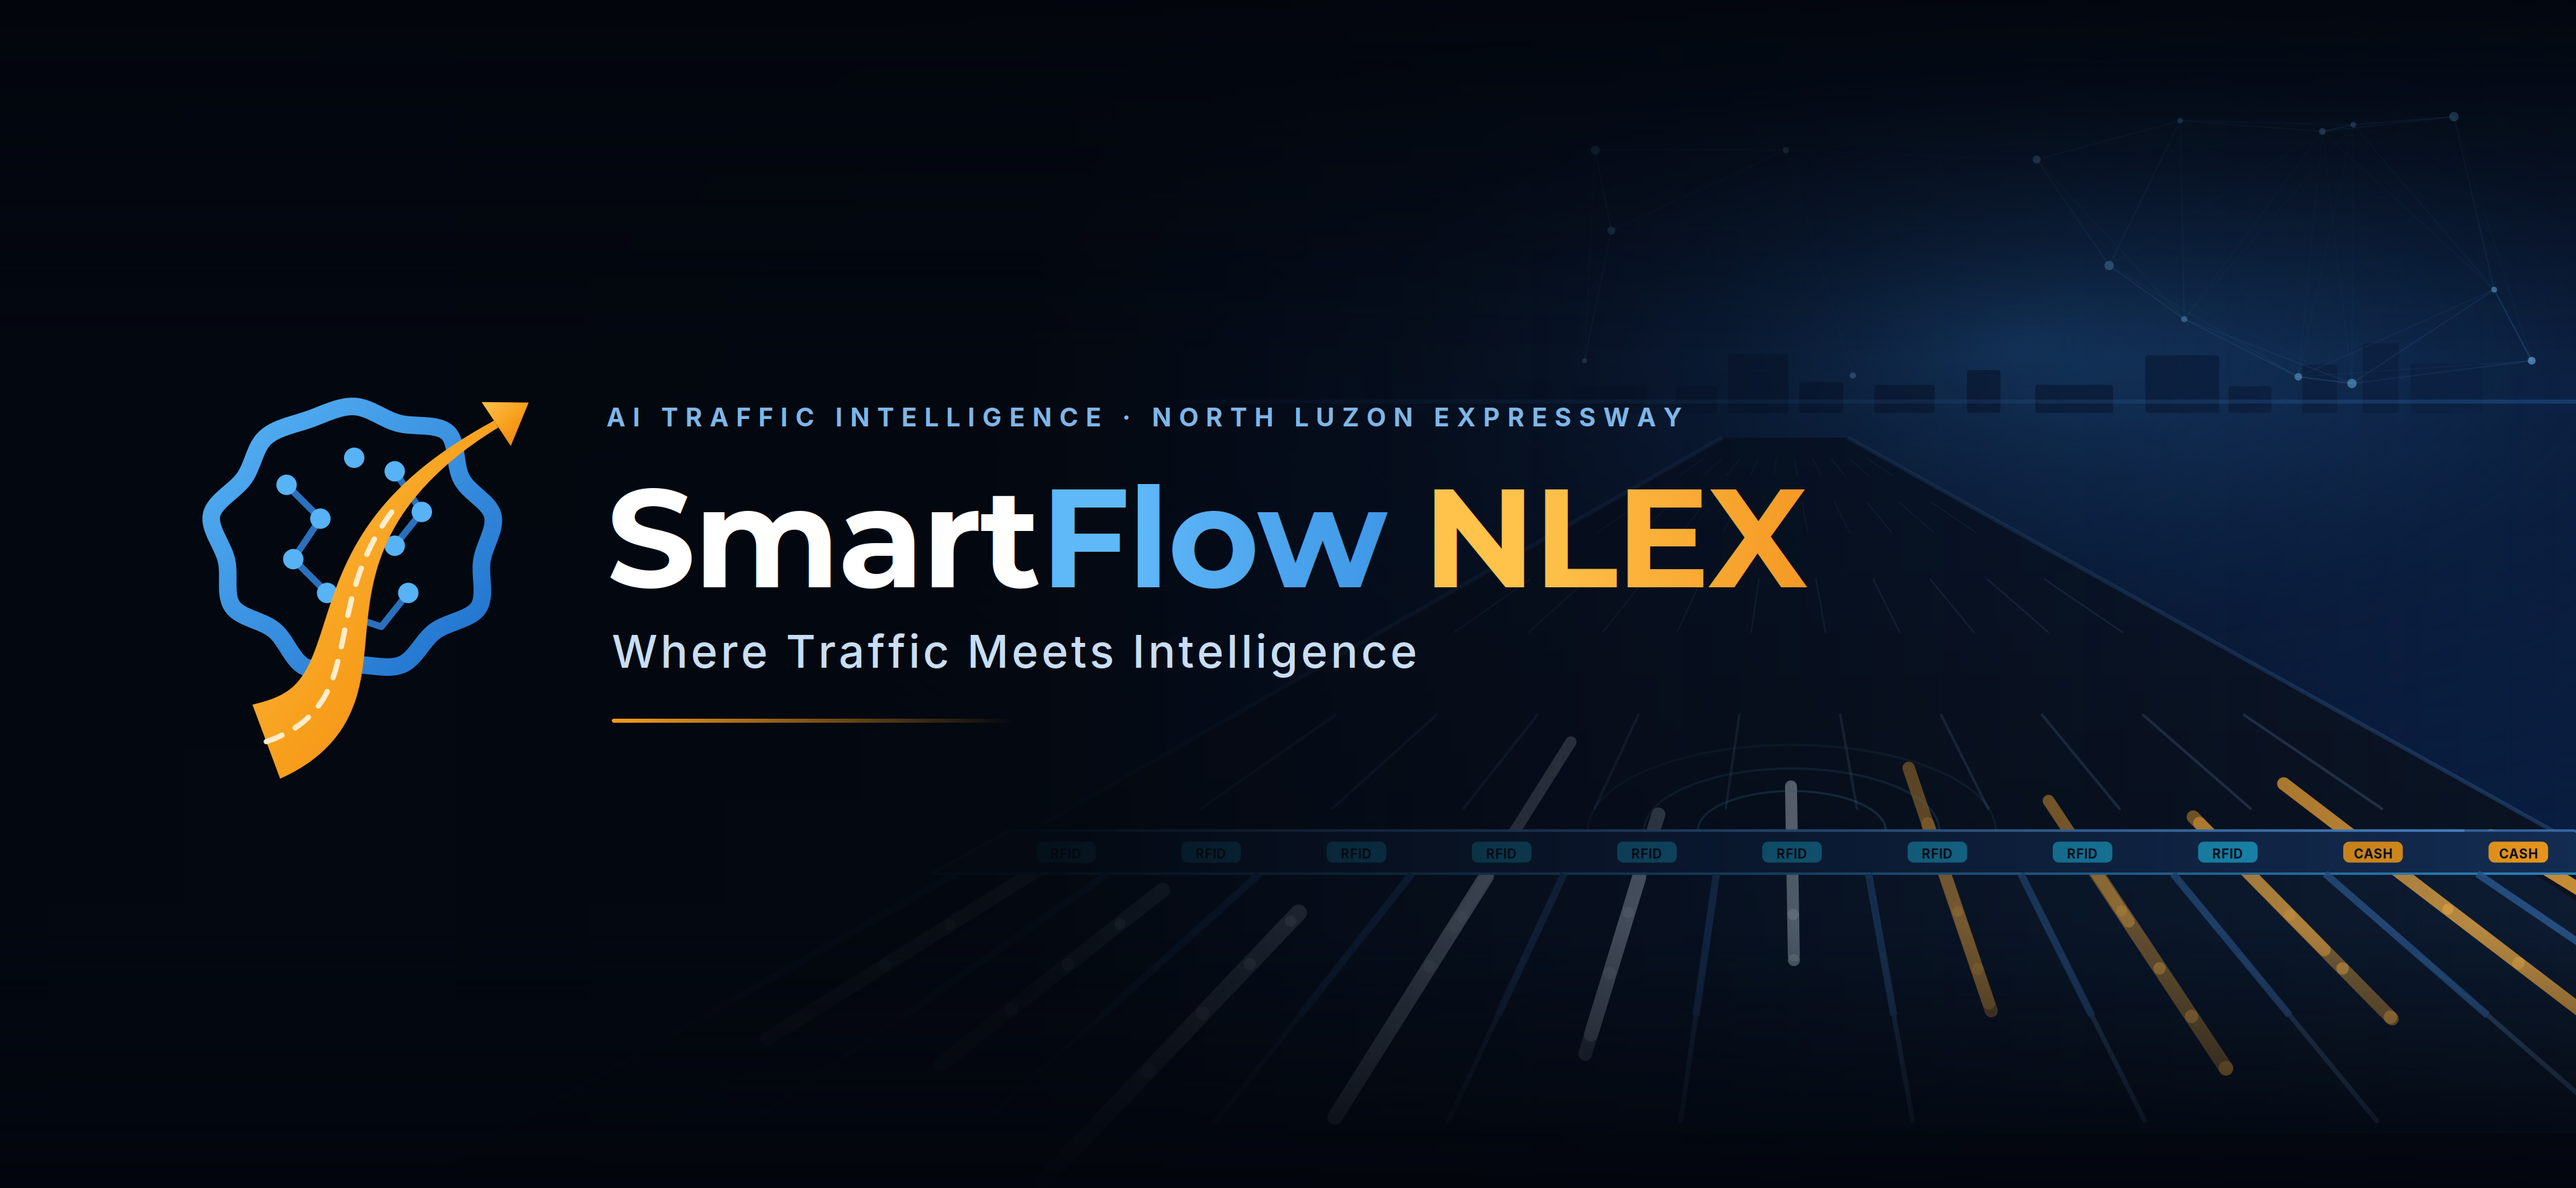
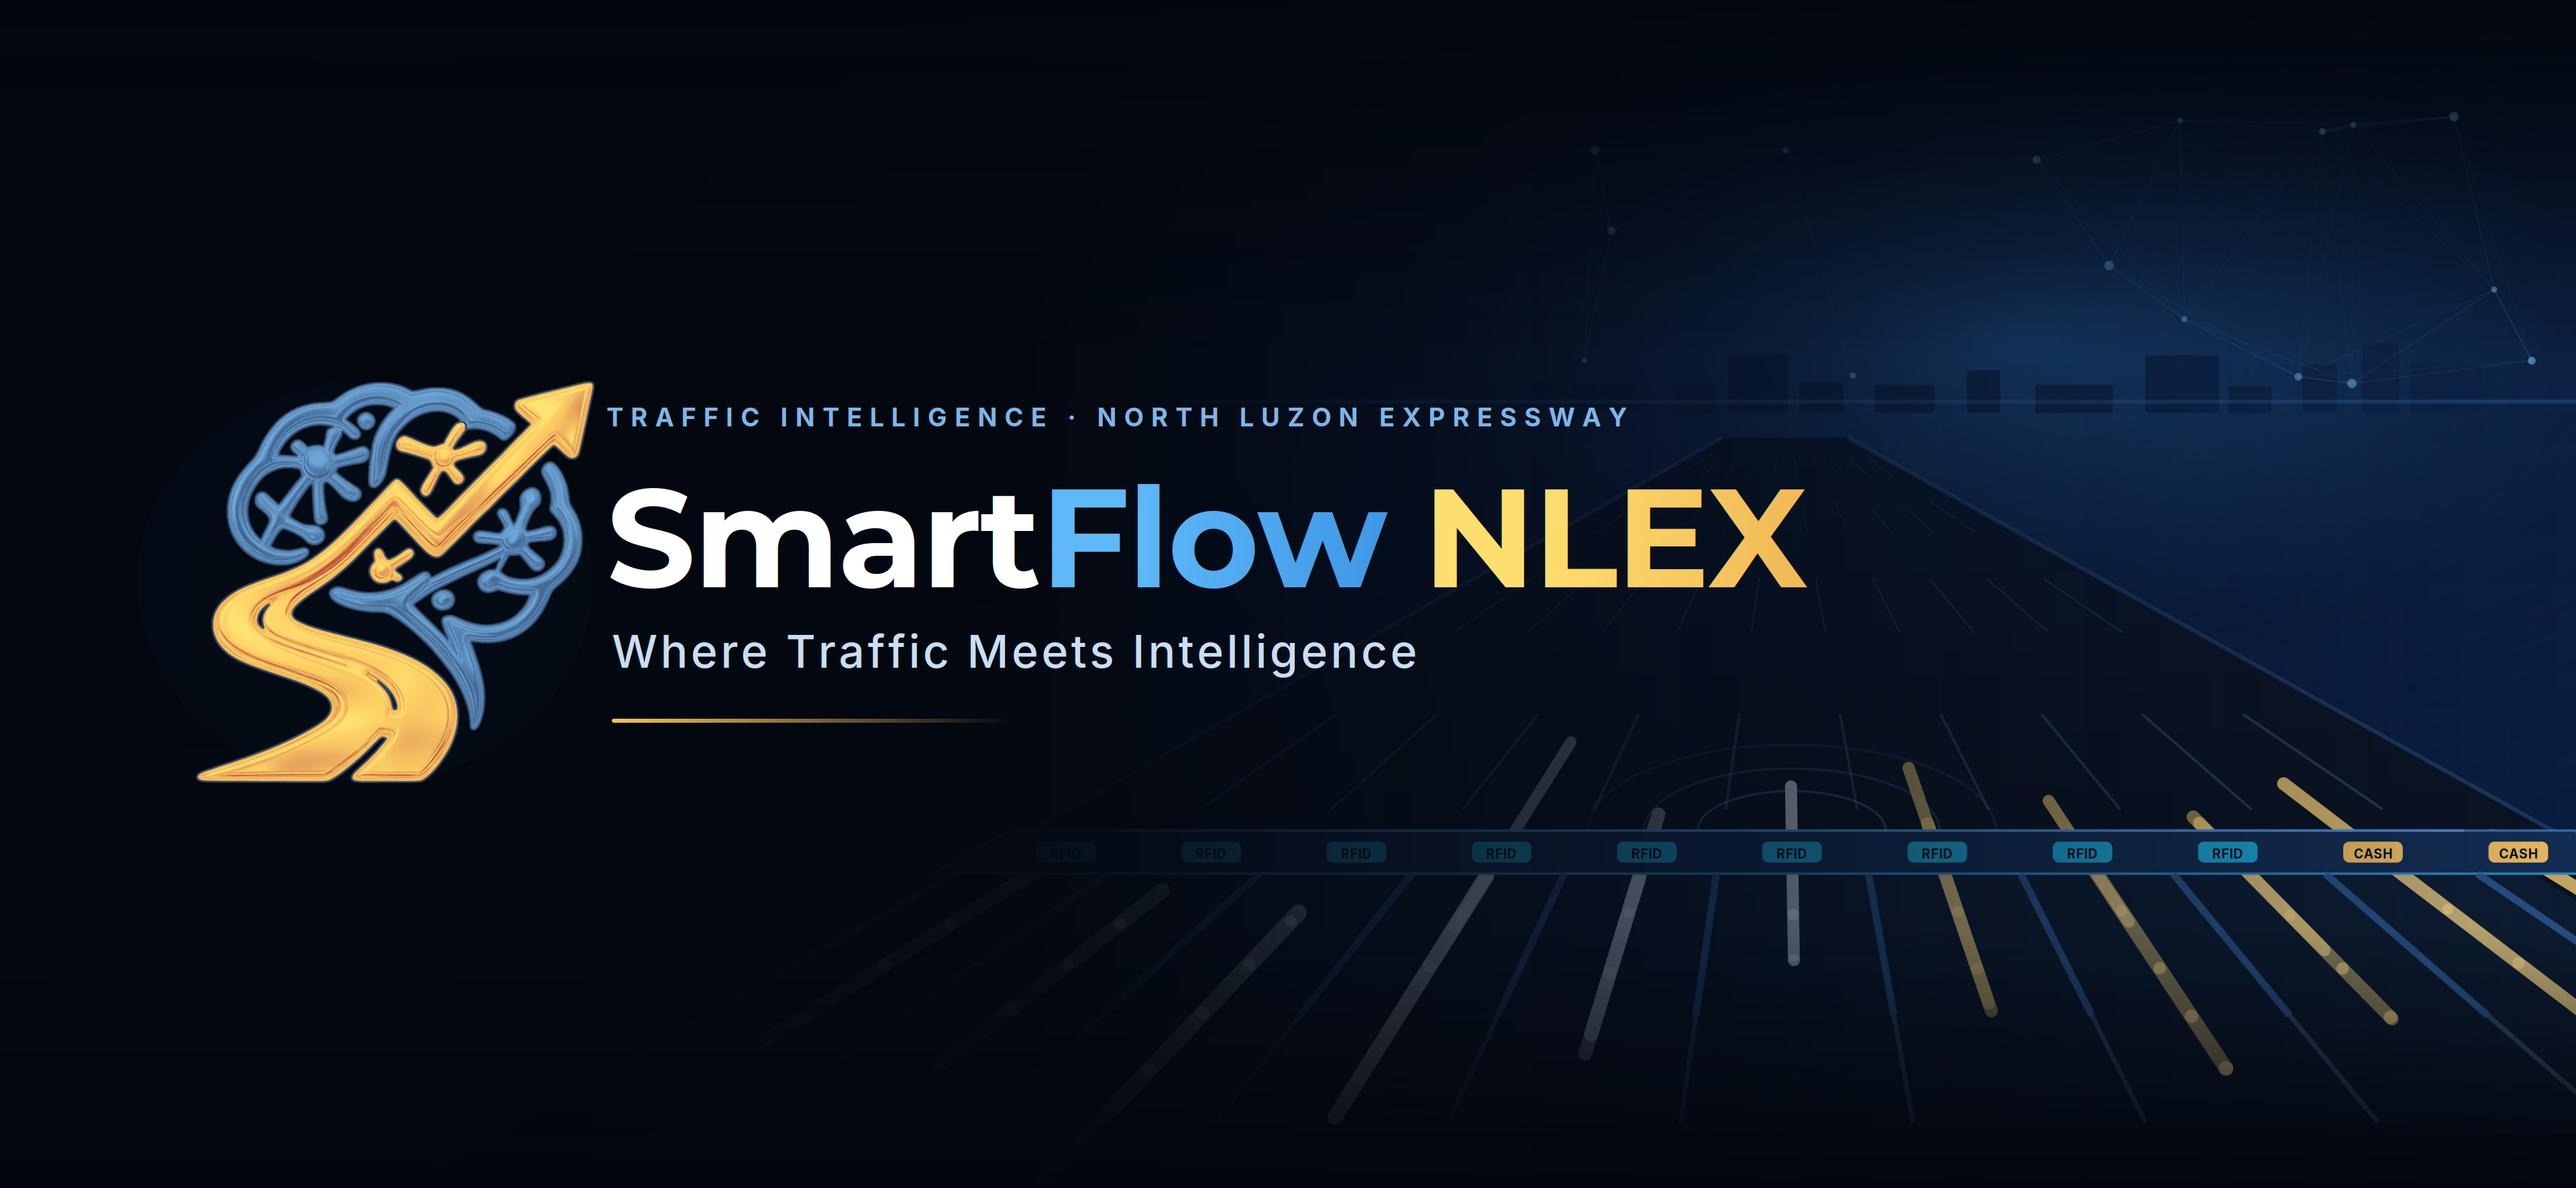
Swap the brand mark with the theme, and fix the 404 on the login screen
The topbar mark now uses SMARTFLOW_LOGO_WHITE.png in light and logo-dark-bg.png
in dark, guarded the same three ways as the hero and the palette so an explicit
choice beats the OS setting in both directions.

Hidden with `display`, not `opacity`. The hero images are position:fill and
stacked, so fading one out costs nothing; these sit in normal flow, where a
transparent-but-present image would still hold its 40px and shove the wordmark
sideways.

The dark cut is an opaque navy tile rather than a transparent mark, so on the
near-black topbar it would read as a hard square. Rounded to 9px so it looks like
a deliberate badge instead of an untrimmed asset.

Separately, and not part of the request: the login page pointed at
/SMARTFLOW_LOGO.png, which is no longer in public/ and was returning 404 - a
broken image on the first screen anyone sees, left behind when the old assets
were cleared out. It now uses the same two cuts. That page needed the swap rather
than a single file, because the login shell takes --bg-login, which flips to
#0d1117 in dark mode; a light-background mark there would have been wrong half
the time.

Audited every src="/*.png" in the app afterwards - all four resolve 200, no other
dangling references.

diff --git a/Front-End-Dashboard/app/globals.css b/Front-End-Dashboard/app/globals.css
@@ -731,7 +731,7 @@ body {
 .ds-sidebar {
   background: var(--bg-sidebar);
   color: var(--text-on-dark);
-  padding: 18px 14px;
+  padding: 25px 14px 18px;
   display: flex;
   flex-direction: column;
   overflow: hidden;
@@ -751,7 +751,7 @@ body {
   display: flex;
   align-items: center;
   justify-content: space-between;
-  margin-bottom: 16px;
+  margin-bottom: 0;
   padding-right: 4px;
   flex-shrink: 0;
 }
@@ -1047,6 +1047,50 @@ body {
   height: 40px;
   object-fit: contain;
 }
+
+/* --- Brand mark, light and dark cuts --------------------------------------
+   Same three-state guard as the hero and the palette: a bare default, an OS
+   preference that an explicit Light choice still overrides, and an explicit Dark
+   choice that beats a light OS.
+
+   `display` rather than `opacity`, because these are in normal flow — a
+   transparent-but-present image would still occupy its 40px and push the
+   wordmark across.
+   ------------------------------------------------------------------------- */
+
+.ds-brand-logo.is-dark  { display: none; }
+.ds-brand-logo.is-light { display: block; }
+
+@media (prefers-color-scheme: dark) {
+  :root:not([data-theme="light"]) .ds-brand-logo.is-dark  { display: block; }
+  :root:not([data-theme="light"]) .ds-brand-logo.is-light { display: none; }
+}
+
+:root[data-theme="dark"] .ds-brand-logo.is-dark  { display: block; }
+:root[data-theme="dark"] .ds-brand-logo.is-light { display: none; }
+
+/* The dark cut is an opaque navy tile rather than a transparent mark, so it
+   would otherwise sit on the topbar as a hard square. Rounding it and trimming
+   the bleed makes it read as a deliberate badge. */
+.ds-brand-logo.is-dark {
+  border-radius: 9px;
+  object-fit: cover;
+}
+
+/* Same swap for the login screen's larger mark. Its own .brand-logo rule sets
+   the size, so this only decides which of the two is shown. */
+.ds-brand-swap.is-dark  { display: none; }
+.ds-brand-swap.is-light { display: block; }
+
+@media (prefers-color-scheme: dark) {
+  :root:not([data-theme="light"]) .ds-brand-swap.is-dark  { display: block; }
+  :root:not([data-theme="light"]) .ds-brand-swap.is-light { display: none; }
+}
+
+:root[data-theme="dark"] .ds-brand-swap.is-dark  { display: block; }
+:root[data-theme="dark"] .ds-brand-swap.is-light { display: none; }
+
+.ds-brand-swap.is-dark { border-radius: 18px; }
 
 .ds-datetime-block {
   text-align: right;

diff --git a/Front-End-Dashboard/app/dashboard/layout.tsx b/Front-End-Dashboard/app/dashboard/layout.tsx
@@ -205,22 +205,6 @@ export default function DashboardLayout({ children }: { children: React.ReactNod
       )}
 
       <aside className="ds-sidebar">
-        <div className="ds-sidebar-brand">
-          <div className="ds-sidebar-logo-container">
-            <div className="ds-sidebar-brand-text">
-              <span className="ds-sidebar-title"><span className="ds-brand-highlight">SmartFlow</span> NLEX</span>
-              <span className="ds-sidebar-subtitle">Where Traffic Meets Intelligence</span>
-            </div>
-          </div>
-          <button
-            type="button"
-            className="ds-sidebar-close"
-            aria-label="Close sidebar"
-            onClick={closeSidebar}
-          >
-            <X size={20} strokeWidth={2.5} />
-          </button>
-        </div>
 
         <nav className="ds-sidebar-nav">
           {NAV_GROUPS.map((group) => {
@@ -276,12 +260,26 @@ export default function DashboardLayout({ children }: { children: React.ReactNod
               <span />
             </button>
             <div className="ds-top-brand">
+              {/* Two cuts of the mark, swapped in CSS for the same reason as the
+                  hero: an explicit theme choice has to beat the OS setting in
+                  both directions, and a JS swap would flash the wrong one on
+                  load. Hidden with `display`, not `opacity` — unlike the hero
+                  these sit in normal flow, so a transparent one would still take
+                  up space and shove the wordmark sideways. */}
               <Image
                 src="/SMARTFLOW_LOGO_WHITE.png"
-                alt="SmartFlow Logo"
-                width={224}
-                height={64}
-                className="w-auto max-h-12 object-contain"
+                alt="SmartFlow NLEX"
+                width={256}
+                height={256}
+                className="ds-brand-logo is-light"
+                priority
+              />
+              <Image
+                src="/logo-dark-bg.png"
+                alt=""
+                width={256}
+                height={256}
+                className="ds-brand-logo is-dark"
                 priority
               />
               SmartFlow NLEX

diff --git a/Front-End-Dashboard/app/page.tsx b/Front-End-Dashboard/app/page.tsx
@@ -119,14 +119,29 @@ export default function Home() {
     <main className="login-shell">
       <section className="login-brand" aria-label="SmartFlow branding">
         <div className="brand-stack">
+          {/* Was pointing at /SMARTFLOW_LOGO.png, which no longer exists in
+              public/ and was 404-ing — a broken image on the first screen anyone
+              sees. Swapped for the two cuts that do exist, with the same
+              three-state theme guard used in the topbar; the login shell takes
+              --bg-login, which flips to near-black in dark mode, so a single
+              light-background mark would have been wrong half the time. */}
           <Image
-            src="/SMARTFLOW_LOGO.png"
-            alt="SmartFlow logo"
-            width={700}
-            height={500}
+            src="/SMARTFLOW_LOGO_WHITE.png"
+            alt="SmartFlow NLEX"
+            width={512}
+            height={512}
             priority
             unoptimized
-            className="brand-logo"
+            className="brand-logo ds-brand-swap is-light"
+          />
+          <Image
+            src="/logo-dark-bg.png"
+            alt=""
+            width={512}
+            height={512}
+            priority
+            unoptimized
+            className="brand-logo ds-brand-swap is-dark"
           />
 
           <div className="brand-copy">
